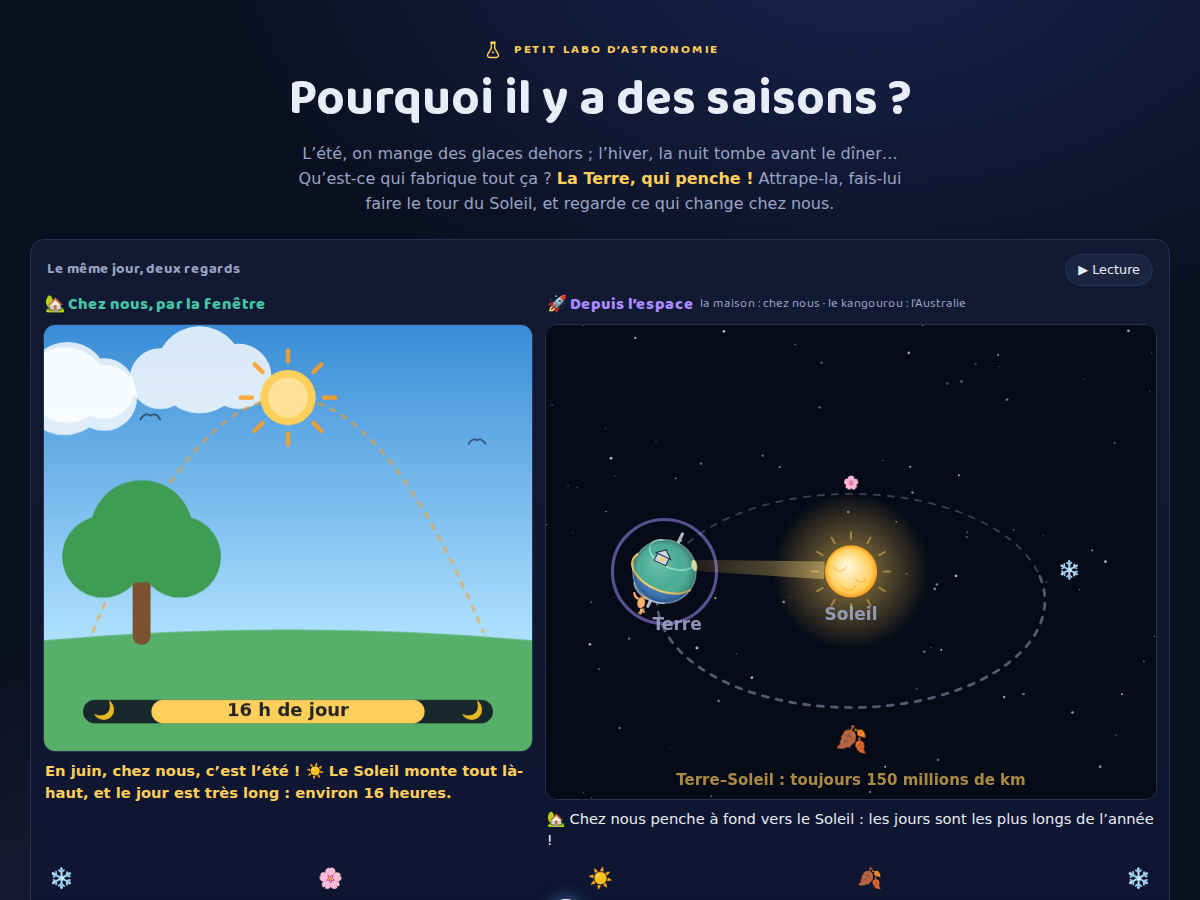
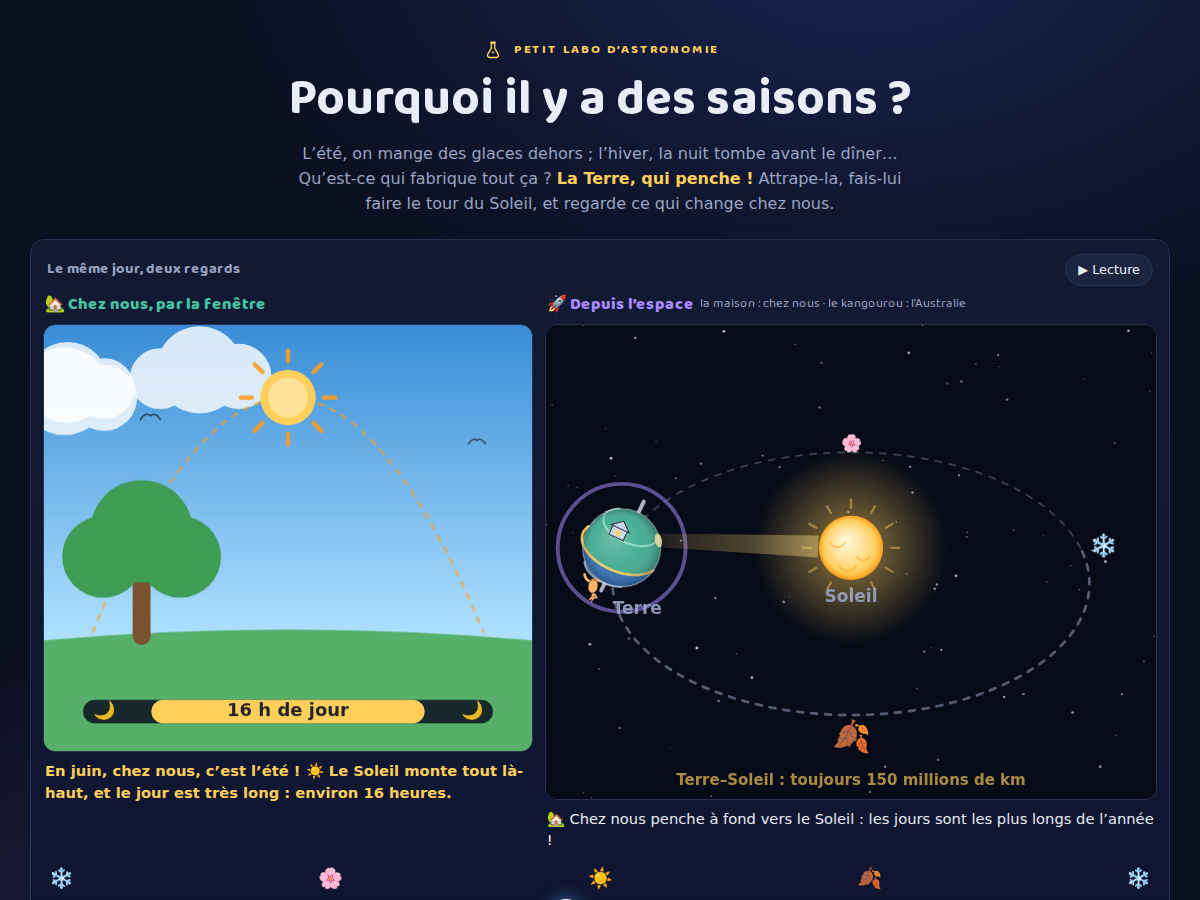
fix: la scène 3D voit grand sur téléphone
Le centre de la scène remonte (0,47 h : l'espace mort au-dessus du
Soleil rejoint le cadre utile), le plafond vertical se relâche
(f = min(1,18 l ; 1,5 h)) et les astres grossissent en mode compact
(Terre 0,20, Soleil 0,16 rayon d'orbite) : sur un téléphone, la Terre
gagne ~45 % de diamètre. Les repères de saison se resserrent à 1,1
rayon pour laisser la légende de distance tranquille.

Claude-Session: https://claude.ai/code/session_018g4iGsVy9rHqQjnC3SGe4X

diff --git a/js/vue-orbite.js b/js/vue-orbite.js
@@ -23,8 +23,9 @@ var PHI = (32 * Math.PI) / 180;
 var COS_PHI = Math.cos(PHI);
 var SIN_PHI = Math.sin(PHI);
 var DISTANCE_CAMERA = 3.1;
-var RAYON_TERRE_MONDE = 0.17;   /* en rayons d'orbite (exagéré, documenté) */
-var RAYON_SOLEIL_MONDE = 0.14;  /* rayon du Soleil à l'écran, en unités projetées */
+/* Les rayons dessinés (en rayons d'orbite, exagérés — documenté) vivent dans
+ * geometrie() : plus gros en mode compact, pour que les astres se voient
+ * sur un téléphone. */
 
 /* L'axe de la Terre : un vrai vecteur 3D, constant (la vérité n° 1). */
 var INCLINAISON_RAD = (INCLINAISON_DESSIN_DEGRES * Math.PI) / 180;
@@ -187,8 +188,10 @@ export function creerVueOrbite(canvas) {
     var h = canvas.height;
     var compact = Math.min(w, h) < 400 * (window.devicePixelRatio || 1);
     return {
-      w: w, h: h, cx: w * 0.5, cy: h * 0.52,
-      f: Math.min(w * 1.18, h * 1.22), compact: compact
+      w: w, h: h, cx: w * 0.5, cy: h * 0.47,
+      f: Math.min(w * 1.18, h * 1.5), compact: compact,
+      rTerreM: compact ? 0.2 : 0.17,
+      rSoleilM: compact ? 0.16 : 0.14
     };
   }
 
@@ -250,7 +253,7 @@ export function creerVueOrbite(canvas) {
 
   function dessinerSoleil(ctx, g) {
     var e = projeter({ x: 0, y: 0, z: 0 }, g);
-    var r = RAYON_SOLEIL_MONDE * e.s;
+    var r = g.rSoleilM * e.s;
     /* la couronne, puis la BOULE : cœur blanc-chaud, bord orangé */
     var halo = ctx.createRadialGradient(e.x, e.y, r * 0.4, e.x, e.y, r * 3);
     halo.addColorStop(0, 'rgba(255, 207, 92, 0.5)');
@@ -290,7 +293,7 @@ export function creerVueOrbite(canvas) {
   function dessinerTerre(ctx, g, jour, halo) {
     var c = terre3D(jour);
     var e = projeter(c, g);
-    var r = RAYON_TERRE_MONDE * e.s;
+    var r = g.rTerreM * e.s;
     var axeEcranHaut = projeter({ x: c.x + AXE3.x, y: c.y + AXE3.y, z: c.z + AXE3.z }, g);
     var axeDir = { x: axeEcranHaut.x - e.x, y: axeEcranHaut.y - e.y };
     var normeAxe = Math.hypot(axeDir.x, axeDir.y) || 1;
@@ -308,8 +311,8 @@ export function creerVueOrbite(canvas) {
 
     /* le bâton de l'axe (recouvert par la boule au milieu) : sa direction
      * ne change JAMAIS — c'est la vérité n° 1 */
-    var hautAxe = projeter({ x: c.x + AXE3.x * RAYON_TERRE_MONDE * 1.55, y: c.y + AXE3.y * RAYON_TERRE_MONDE * 1.55, z: c.z + AXE3.z * RAYON_TERRE_MONDE * 1.55 }, g);
-    var basAxe = projeter({ x: c.x - AXE3.x * RAYON_TERRE_MONDE * 1.55, y: c.y - AXE3.y * RAYON_TERRE_MONDE * 1.55, z: c.z - AXE3.z * RAYON_TERRE_MONDE * 1.55 }, g);
+    var hautAxe = projeter({ x: c.x + AXE3.x * g.rTerreM * 1.55, y: c.y + AXE3.y * g.rTerreM * 1.55, z: c.z + AXE3.z * g.rTerreM * 1.55 }, g);
+    var basAxe = projeter({ x: c.x - AXE3.x * g.rTerreM * 1.55, y: c.y - AXE3.y * g.rTerreM * 1.55, z: c.z - AXE3.z * g.rTerreM * 1.55 }, g);
     ctx.beginPath();
     ctx.moveTo(basAxe.x, basAxe.y);
     ctx.lineTo(hautAxe.x, hautAxe.y);
@@ -324,12 +327,12 @@ export function creerVueOrbite(canvas) {
     ctx.arc(e.x, e.y, r, 0, TAU);
     ctx.fillStyle = '#3fa98e';
     ctx.fill();
-    var equateur = cercle(c, RAYON_TERRE_MONDE, 72);
+    var equateur = cercle(c, g.rTerreM, 72);
     var devant = chaineVisible(equateur, c);
     if (devant.length > 2) {
       var A = projeter(devant[0], g);
       var B = projeter(devant[devant.length - 1], g);
-      var pole = projeter({ x: c.x + AXE3.x * RAYON_TERRE_MONDE, y: c.y + AXE3.y * RAYON_TERRE_MONDE, z: c.z + AXE3.z * RAYON_TERRE_MONDE }, g);
+      var pole = projeter({ x: c.x + AXE3.x * g.rTerreM, y: c.y + AXE3.y * g.rTerreM, z: c.z + AXE3.z * g.rTerreM }, g);
       var angA = Math.atan2(A.y - e.y, A.x - e.x);
       var angB = Math.atan2(B.y - e.y, B.x - e.x);
       var angPole = Math.atan2(pole.y - e.y, pole.x - e.x);
@@ -356,11 +359,11 @@ export function creerVueOrbite(canvas) {
     /* les anneaux de latitude : les rubans de chez nous et de l'Australie */
     [1, -1].forEach(function (signe) {
       var centreAnneau = {
-        x: c.x + AXE3.x * RAYON_TERRE_MONDE * Math.sin(LATITUDE_RAD) * signe,
-        y: c.y + AXE3.y * RAYON_TERRE_MONDE * Math.sin(LATITUDE_RAD) * signe,
-        z: c.z + AXE3.z * RAYON_TERRE_MONDE * Math.sin(LATITUDE_RAD) * signe
+        x: c.x + AXE3.x * g.rTerreM * Math.sin(LATITUDE_RAD) * signe,
+        y: c.y + AXE3.y * g.rTerreM * Math.sin(LATITUDE_RAD) * signe,
+        z: c.z + AXE3.z * g.rTerreM * Math.sin(LATITUDE_RAD) * signe
       };
-      var anneau = cercle(centreAnneau, RAYON_TERRE_MONDE * Math.cos(LATITUDE_RAD), 60);
+      var anneau = cercle(centreAnneau, g.rTerreM * Math.cos(LATITUDE_RAD), 60);
       var visible = chaineVisible(anneau, c);
       if (visible.length > 1) {
         tracer(ctx, visible, g);
@@ -398,9 +401,9 @@ export function creerVueOrbite(canvas) {
     devantRing.x /= nfd; devantRing.y /= nfd; devantRing.z /= nfd;
     [1, -1].forEach(function (signe) {
       var pos = {
-        x: c.x + (AXE3.x * Math.sin(LATITUDE_RAD) * signe + devantRing.x * Math.cos(LATITUDE_RAD)) * RAYON_TERRE_MONDE,
-        y: c.y + (AXE3.y * Math.sin(LATITUDE_RAD) * signe + devantRing.y * Math.cos(LATITUDE_RAD)) * RAYON_TERRE_MONDE,
-        z: c.z + (AXE3.z * Math.sin(LATITUDE_RAD) * signe + devantRing.z * Math.cos(LATITUDE_RAD)) * RAYON_TERRE_MONDE
+        x: c.x + (AXE3.x * Math.sin(LATITUDE_RAD) * signe + devantRing.x * Math.cos(LATITUDE_RAD)) * g.rTerreM,
+        y: c.y + (AXE3.y * Math.sin(LATITUDE_RAD) * signe + devantRing.y * Math.cos(LATITUDE_RAD)) * g.rTerreM,
+        z: c.z + (AXE3.z * Math.sin(LATITUDE_RAD) * signe + devantRing.z * Math.cos(LATITUDE_RAD)) * g.rTerreM
       };
       var ep = projeter(pos, g);
       if (signe > 0) {
@@ -433,15 +436,15 @@ export function creerVueOrbite(canvas) {
       z: versSoleil.z * cosG + perpAxe.z * sinG
     };
     var cible = {
-      x: c.x + dirCible.x * RAYON_TERRE_MONDE,
-      y: c.y + dirCible.y * RAYON_TERRE_MONDE,
-      z: c.z + dirCible.z * RAYON_TERRE_MONDE
+      x: c.x + dirCible.x * g.rTerreM,
+      y: c.y + dirCible.y * g.rTerreM,
+      z: c.z + dirCible.z * g.rTerreM
     };
     var force = forceFaisceau(jour);
     var aplomb = aplombLumiere(jour);
     var eCible = projeter(cible, g);
     var eSoleil = projeter({ x: 0, y: 0, z: 0 }, g);
-    var rSoleil = RAYON_SOLEIL_MONDE * eSoleil.s;
+    var rSoleil = g.rSoleilM * eSoleil.s;
     dessinerLumiere(ctx, eSoleil.x, eSoleil.y, rSoleil, eCible.x, eCible.y, e.x, e.y, r, aplomb, 'faisceau', force);
     if (coteCamera(cible, c)) {
       dessinerLumiere(ctx, eSoleil.x, eSoleil.y, rSoleil, eCible.x, eCible.y, e.x, e.y, r, aplomb, 'tache', force);
@@ -490,7 +493,7 @@ export function creerVueOrbite(canvas) {
         if (ecart > Math.PI) ecart = TAU - ecart;
         if (ecart < 0.45) return;
         ctx.globalAlpha = Math.min(1, (ecart - 0.45) / 0.5);
-        var e = projeter({ x: -Math.cos(rep.angle) * 1.17, y: 0, z: Math.sin(rep.angle) * 1.17 }, g);
+        var e = projeter({ x: -Math.cos(rep.angle) * 1.1, y: 0, z: Math.sin(rep.angle) * 1.1 }, g);
         ctx.font = Math.round((g.compact ? 0.11 : 0.095) * e.s) + 'px system-ui, sans-serif';
         ctx.fillText(rep.emoji, e.x, e.y);
       });
@@ -520,7 +523,7 @@ export function creerVueOrbite(canvas) {
         ctx.fillStyle = 'rgba(154, 165, 195, 0.9)';
         ctx.font = '600 ' + taille + 'px system-ui, sans-serif';
         ctx.fillText('Soleil', eSoleil.x, g.cy + soleil.r + taille * 1.3);
-        var rT = RAYON_TERRE_MONDE * projeter(terre3D(jour), g).s;
+        var rT = g.rTerreM * projeter(terre3D(jour), g).s;
         var eT = projeter(terre3D(jour), g);
         /* au-dessus derrière le Soleil, sur le côté quand la Terre passe
          * devant (jamais sur la légende du bas), en dessous sinon */
@@ -558,7 +561,7 @@ export function creerVueOrbite(canvas) {
     attrapeTerre: function (x, y, jour) {
       var g = geometrie();
       var e = projeter(terre3D(jour), g);
-      var marge = Math.max(RAYON_TERRE_MONDE * e.s * 2.4, 44 * (window.devicePixelRatio || 1));
+      var marge = Math.max(g.rTerreM * e.s * 2.4, 44 * (window.devicePixelRatio || 1));
       return (e.x - x) * (e.x - x) + (e.y - y) * (e.y - y) <= marge * marge;
     }
   };

diff --git a/CLAUDE.md b/CLAUDE.md
@@ -70,8 +70,9 @@ Vérités verrouillées par `test/model.test.mjs` (à compléter, jamais supprim
   dans le plan xz, `terre3D(jour) = (−cos a, 0, sin a)` ; caméra à 32°
   au-dessus du plan (`PHI`), distance 3,1 — le bas de l'écran est PRÈS, le
   haut est LOIN, la Terre grossit devant et passe derrière le Soleil au fond.
-  Le Soleil se projette toujours PILE en (0,5 w ; 0,52 h) : la sonde de
-  pixels « Soleil fixe » tient. Équateur et anneaux sont de vrais cercles 3D
+  Le Soleil se projette toujours PILE en (0,5 w ; 0,47 h) : la sonde de
+  pixels « Soleil fixe » tient. Cadrage f = min(1,18 l ; 1,5 h), astres
+  grossis en mode compact (téléphone) — retour utilisateur « trop petit ». Équateur et anneaux sont de vrais cercles 3D
   projetés (moitiés cachées non dessinées), la couture de l'équateur est
   exacte.
 - **Le faisceau de lumière** vit dans le modèle (`forceFaisceau`,
